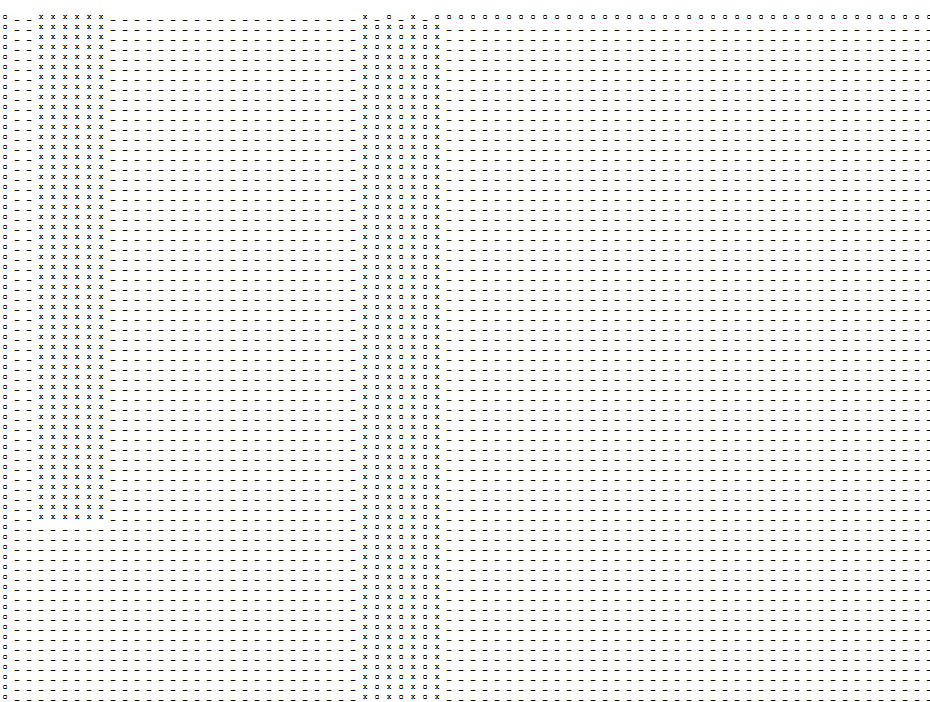
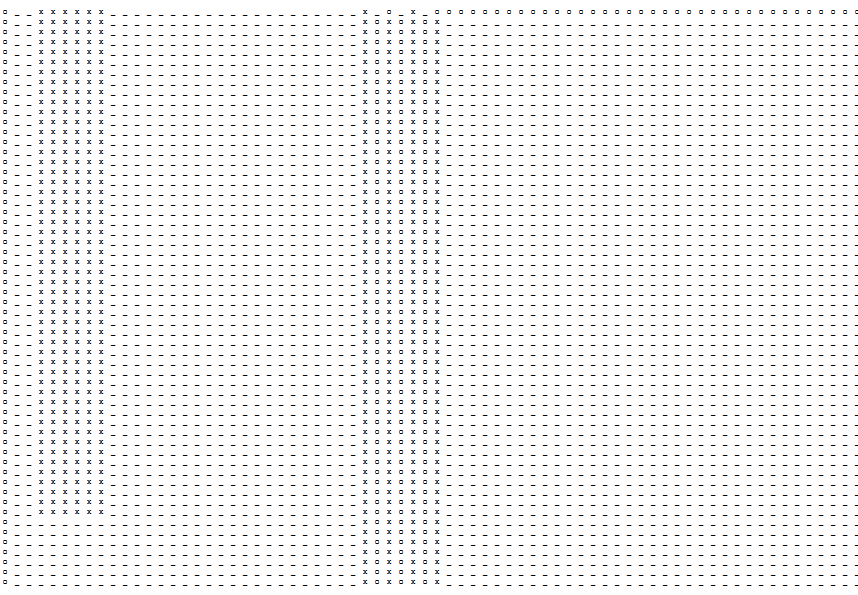
Image resizing

Changed region(s): [[0.0, 0.0, 1.0, 1.0]]

diff --git a/index.html b/index.html
@@ -22,8 +22,7 @@
     <div class="row">
       <div class="col-sm-4 col-md-4">
         <div class="thumbnail">
-          <img src="images/GameOfLifeScreensaver.svg" alt="Game of Life Screensaver" onerror="this.source='Prax.png'">
-          <!-- <object data="images/GameOfLifeScreensaver.svg" type="image/svg+xml"></obect> -->
+          <img class="img-responsive" src="images/GameOfLifeScreensaver.png" alt="Game of Life Screensaver">
           <div class="caption">
             <h4><a href="https://github.com/masterwok/GameOfLife" target="_blank">Game of Life Screensaver</a></h4>
             <p>
@@ -37,7 +36,7 @@
 
       <div class="col-sm-4 col-md-4">
         <div class="thumbnail">
-          <img src="images/Scheduler.svg" alt="Operating System Scheduler">
+          <img class="img-responsive" src="images/Scheduler.png" alt="Operating System Scheduler">
           <div class="caption">
             <h4><a href="https://github.com/masterwok/GameOfLife" target="_blank">OS Process Scheduling Emulation</a></h4>
             <p>Insert a brief description about the project.</p>
@@ -48,7 +47,7 @@
 
       <div class="col-sm-4 col-md-4">
         <div class="thumbnail">
-          <img src="images/Creature.svg" alt="Creature">
+          <img class="img-responsive" src="images/Creature.png" alt="Creature">
           <div class="caption">
             <h4><a href="https://github.com/masterwok/GameOfLife" target="_blank">Creature</a></h4>
             <p>Insert a brief description about the project.</p>
@@ -61,7 +60,7 @@
   <div class="row">
     <div class="col-sm-4 col-md-4">
       <div class="thumbnail">
-        <img src="images/Game.svg" alt="Game">
+        <img class="img-responsive" src="images/Game.png" alt="Game">
         <div class="caption">
           <h4><a href="https://github.com/masterwok/GameOfLife" target="_blank">Simple Game</a></h4>
           <p>
@@ -74,7 +73,7 @@
 
     <div class="col-sm-4 col-md-4">
       <div class="thumbnail">
-        <img src="images/ConnectFour.svg" alt="Game">
+        <img class="img-responsive" src="images/ConnectFour.png" alt="Game">
         <div class="caption">
           <h4><a href="https://github.com/masterwok/GameOfLife" target="_blank">Connect Four</a></h4>
           <p>
@@ -87,7 +86,7 @@
 
     <div class="col-sm-4 col-md-4">
       <div class="thumbnail">
-        <img src="images/Prax.svg" alt="Game">
+        <img class="img-responsive" src="images/Prax.png" alt="Game">
         <div class="caption">
           <h4><a href="https://github.com/masterwok/GameOfLife" target="_blank">A* Search Algorithm</a></h4>
           <p>
